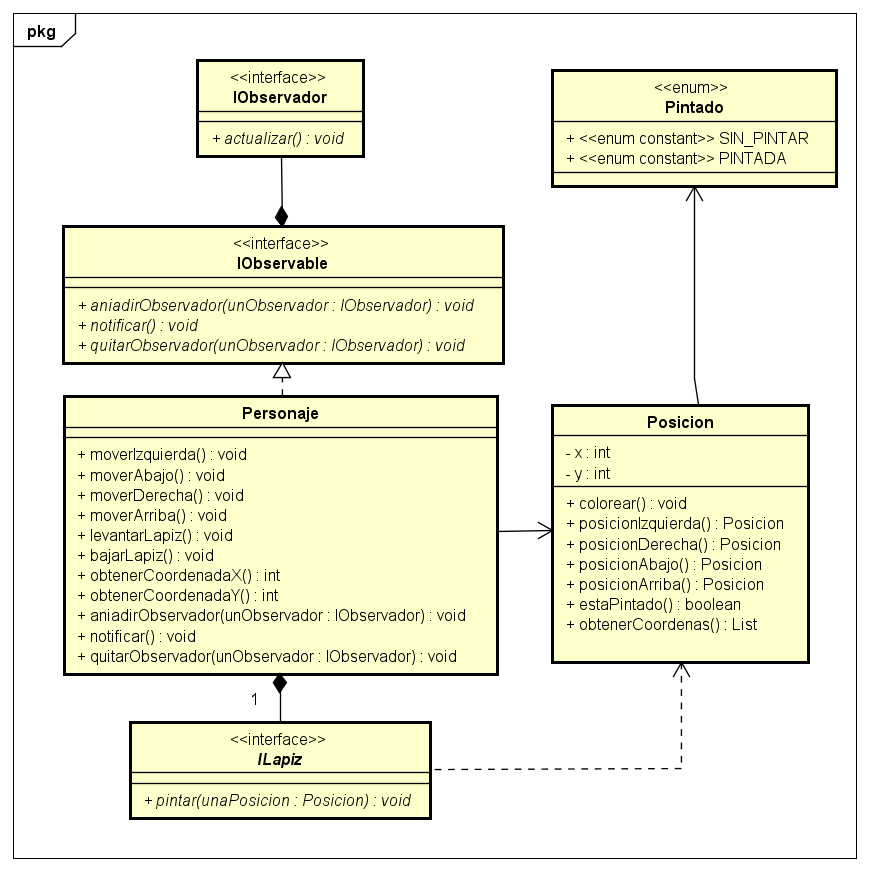
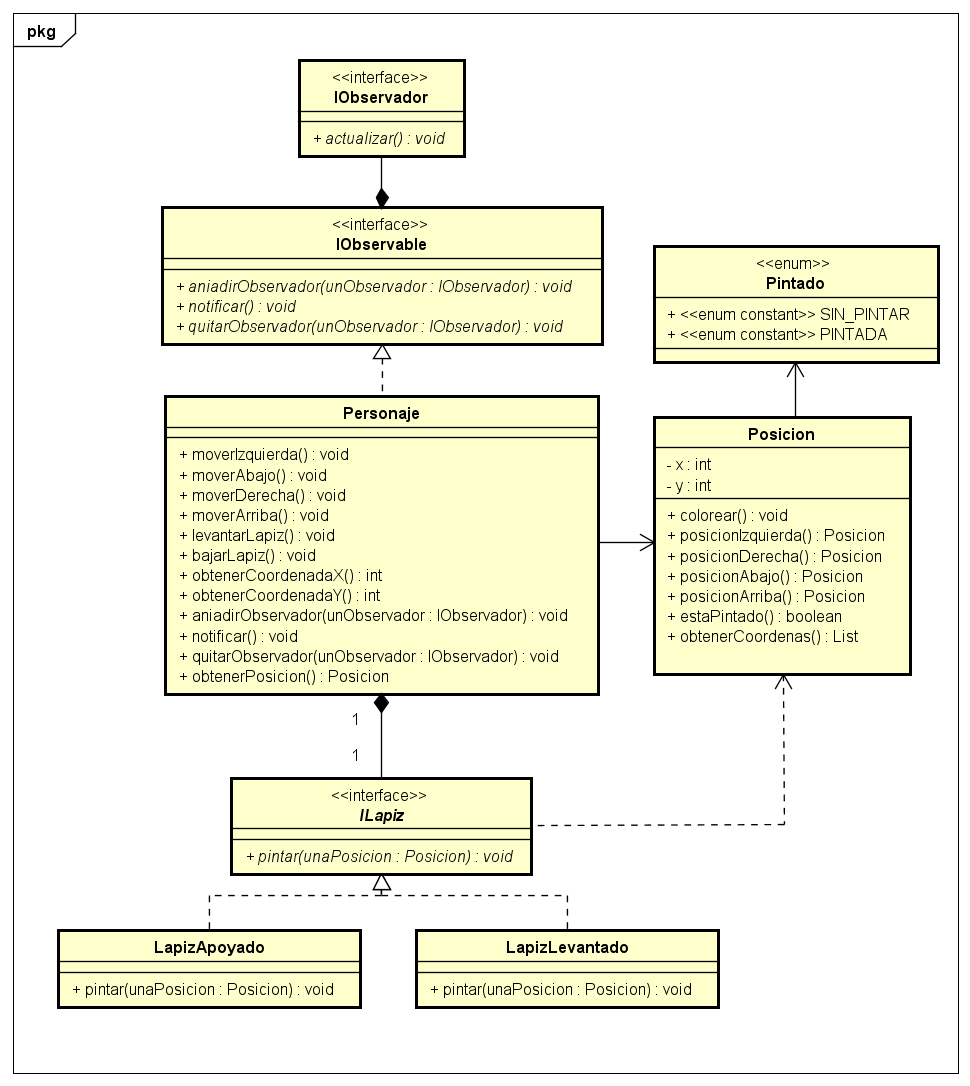
BugFix: se eliminan los botones compuesto inferiores al eliminado junto a sus tabs.
Update algunos UML

diff --git a/src/main/java/edu/fiuba/algo3/Vista/BotonBloqueArmado.java b/src/main/java/edu/fiuba/algo3/Vista/BotonBloqueArmado.java
@@ -11,6 +11,8 @@ import javafx.scene.control.Tab;
 import javafx.scene.layout.VBox;
 import javafx.scene.text.Font;
 
+import java.util.List;
+
 public class BotonBloqueArmado extends Button {
 
     private final IBloque bloquePadre;
@@ -81,6 +83,12 @@ public class BotonBloqueArmado extends Button {
         ObservableList<Node> contenedor = this.contenedorPadre.getChildren();
         int inicio = contenedor.indexOf(this);
         int fin = contenedor.size();
+        List<Node> botonesAbajo = contenedor.subList(inicio,fin);
+        for (Node botonAbajo : botonesAbajo)
+        {
+            BotonBloqueArmado botonBloqueAbajo = (BotonBloqueArmado) botonAbajo;
+            botonBloqueAbajo.eliminarHijos();
+        }
         contenedor.remove(inicio,fin);
     }
 }
